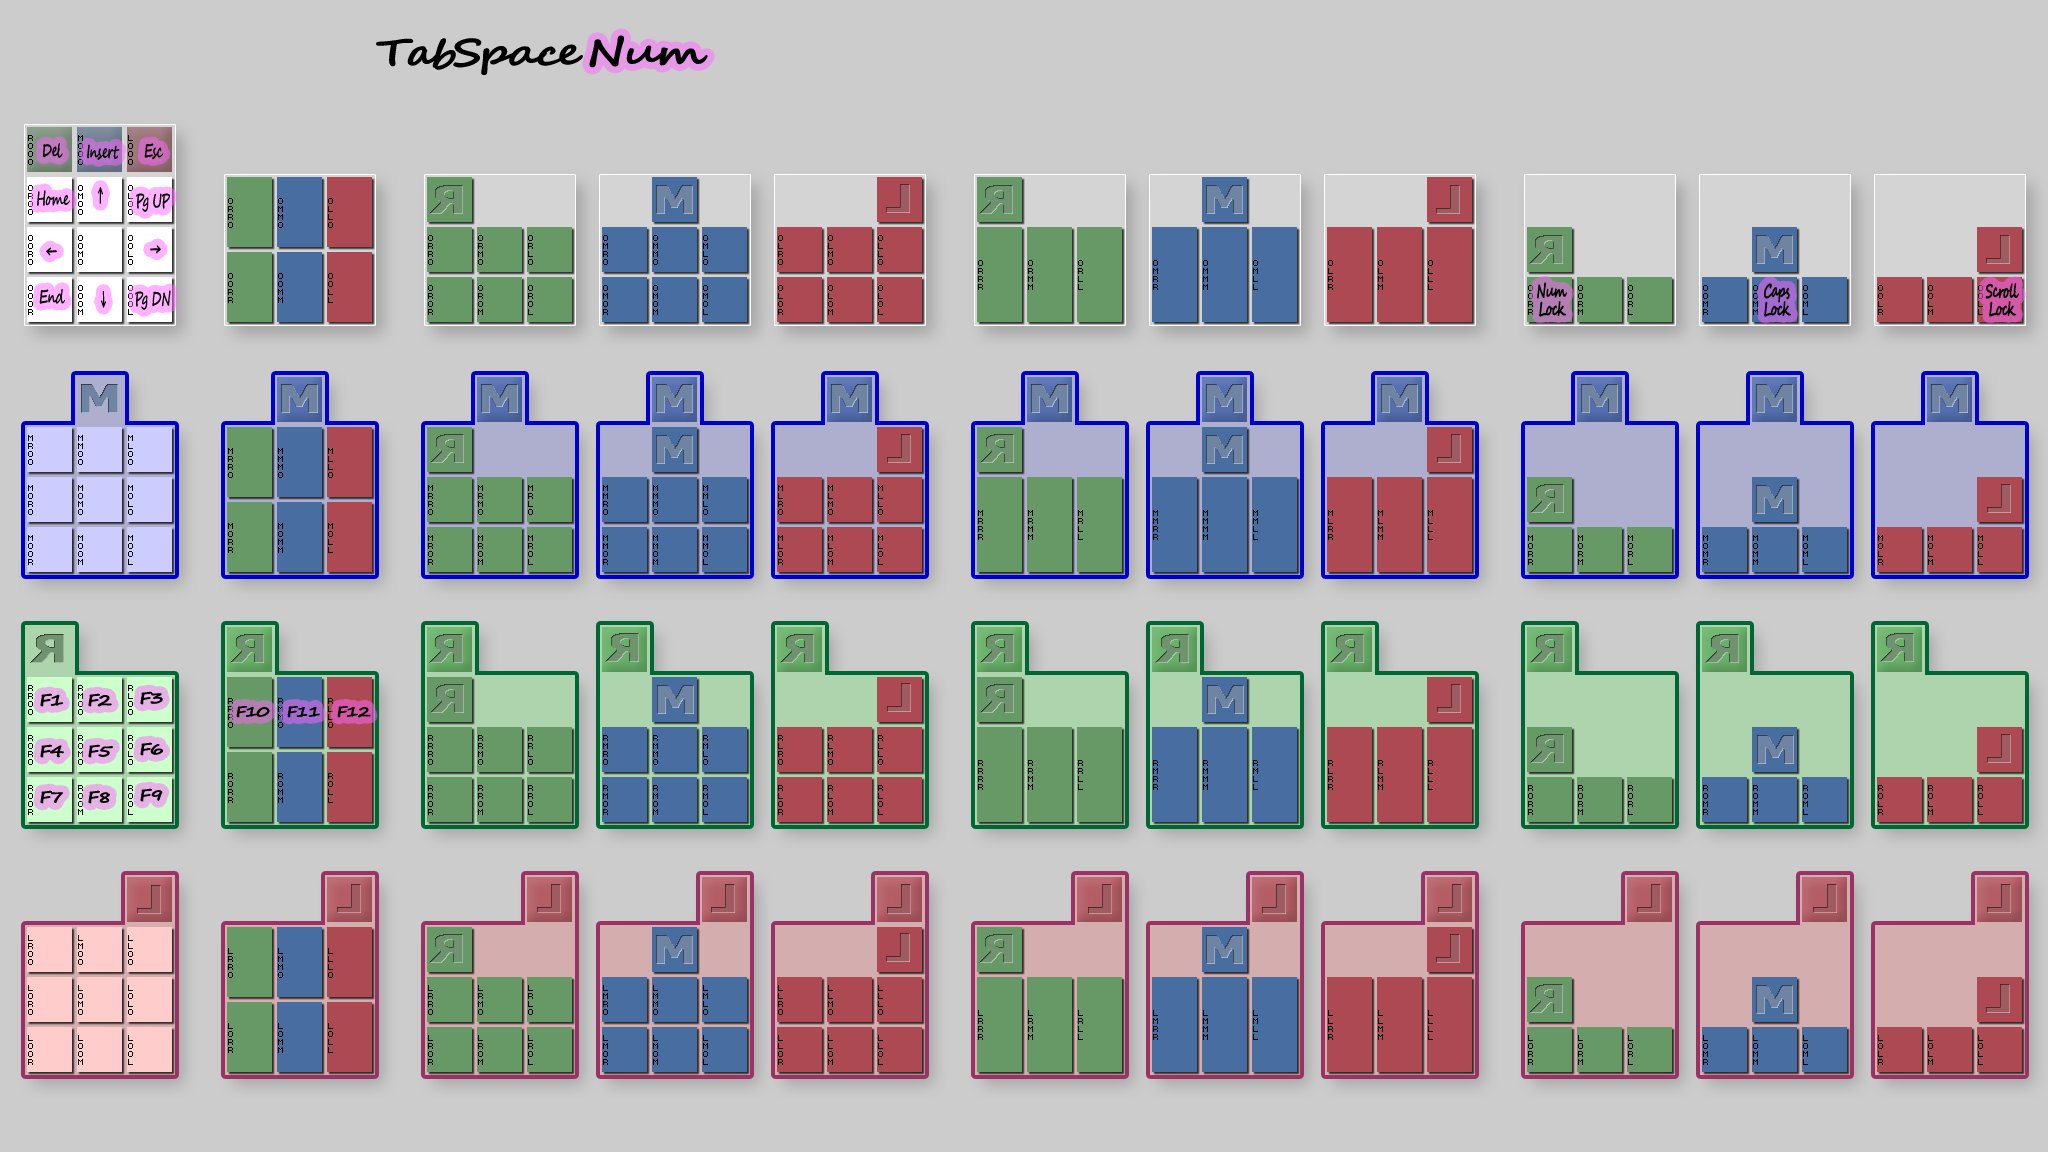
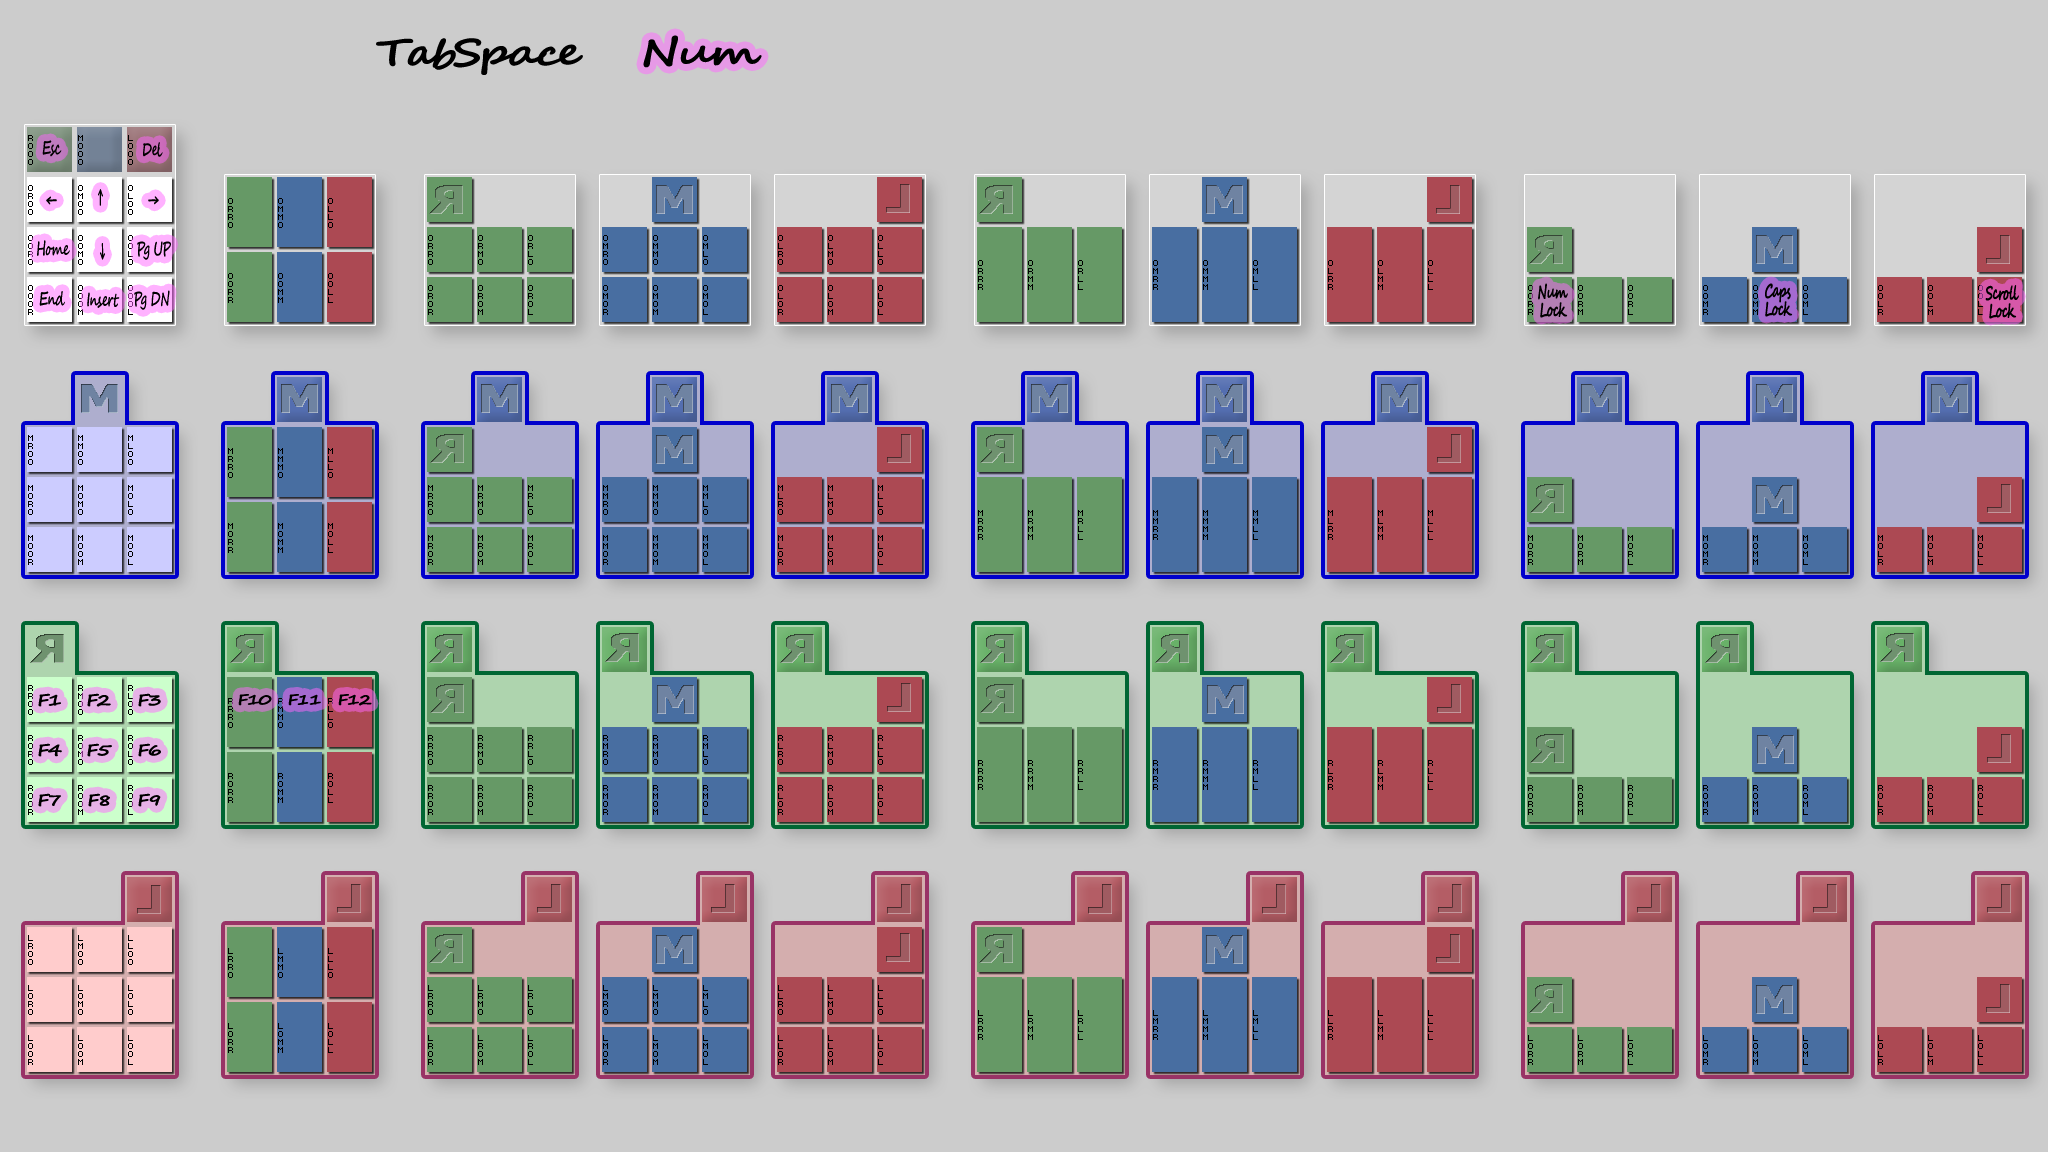
added 2 and 3 Letters to TabSpace 3 Num

diff --git a/layout_browser.html b/layout_browser.html
@@ -65,8 +65,9 @@
    <img id="img1" style="display:block;" title="ORML Notation" src="images/Cheat_Blank.png">
    <img id="img2" style="display: none;" title="TabSpace Num"  src="images/Cheat_TabSpace_Num.png">
    <img id="img3" style="display: none;" title="TabSpace"      src="images/Cheat_TabSpace.png">
-   <img id="img4" style="display: none;" title="TabSpace++"    src="images/Cheat_TabSpace_ivanwfr.png">
-   <img id="img5" style="display: none;" title="MessagEase"    src="images/Cheat_MessagEase.png">
+   <img id="img4" style="display: none;" title="TabSpace++"    src="images/Cheat_TabSpace_3.png">
+   <img id="img5" style="display: none;" title="TabSpace++"    src="images/Cheat_TabSpace_3_Num.png">
+   <img id="img6" style="display: none;" title="MessagEase"    src="images/Cheat_MessagEase.png">
 
   </body>
 

diff --git a/index.html b/index.html
@@ -94,8 +94,15 @@
 
    <p>
    <em>TabSpace++</em> (WIP)<br>
-   <a href="images/Cheat_TabSpace_ivanwfr.png" target="_blank">
-    <img id="img4" style="width:80%; margin:1em;" src="images/Cheat_TabSpace_ivanwfr.png">
+   <a href="images/Cheat_TabSpace_3.png" target="_blank">
+    <img id="img4" style="width:80%; margin:1em;" src="images/Cheat_TabSpace_3.png">
+   </a>
+   </p>
+
+   <p>
+   <em>TabSpace++</em> (WIP)<br>
+   <a href="images/Cheat_TabSpace_3_Num.png" target="_blank">
+    <img id="img4" style="width:80%; margin:1em;" src="images/Cheat_TabSpace_3_Num.png">
    </a>
    </p>
 
